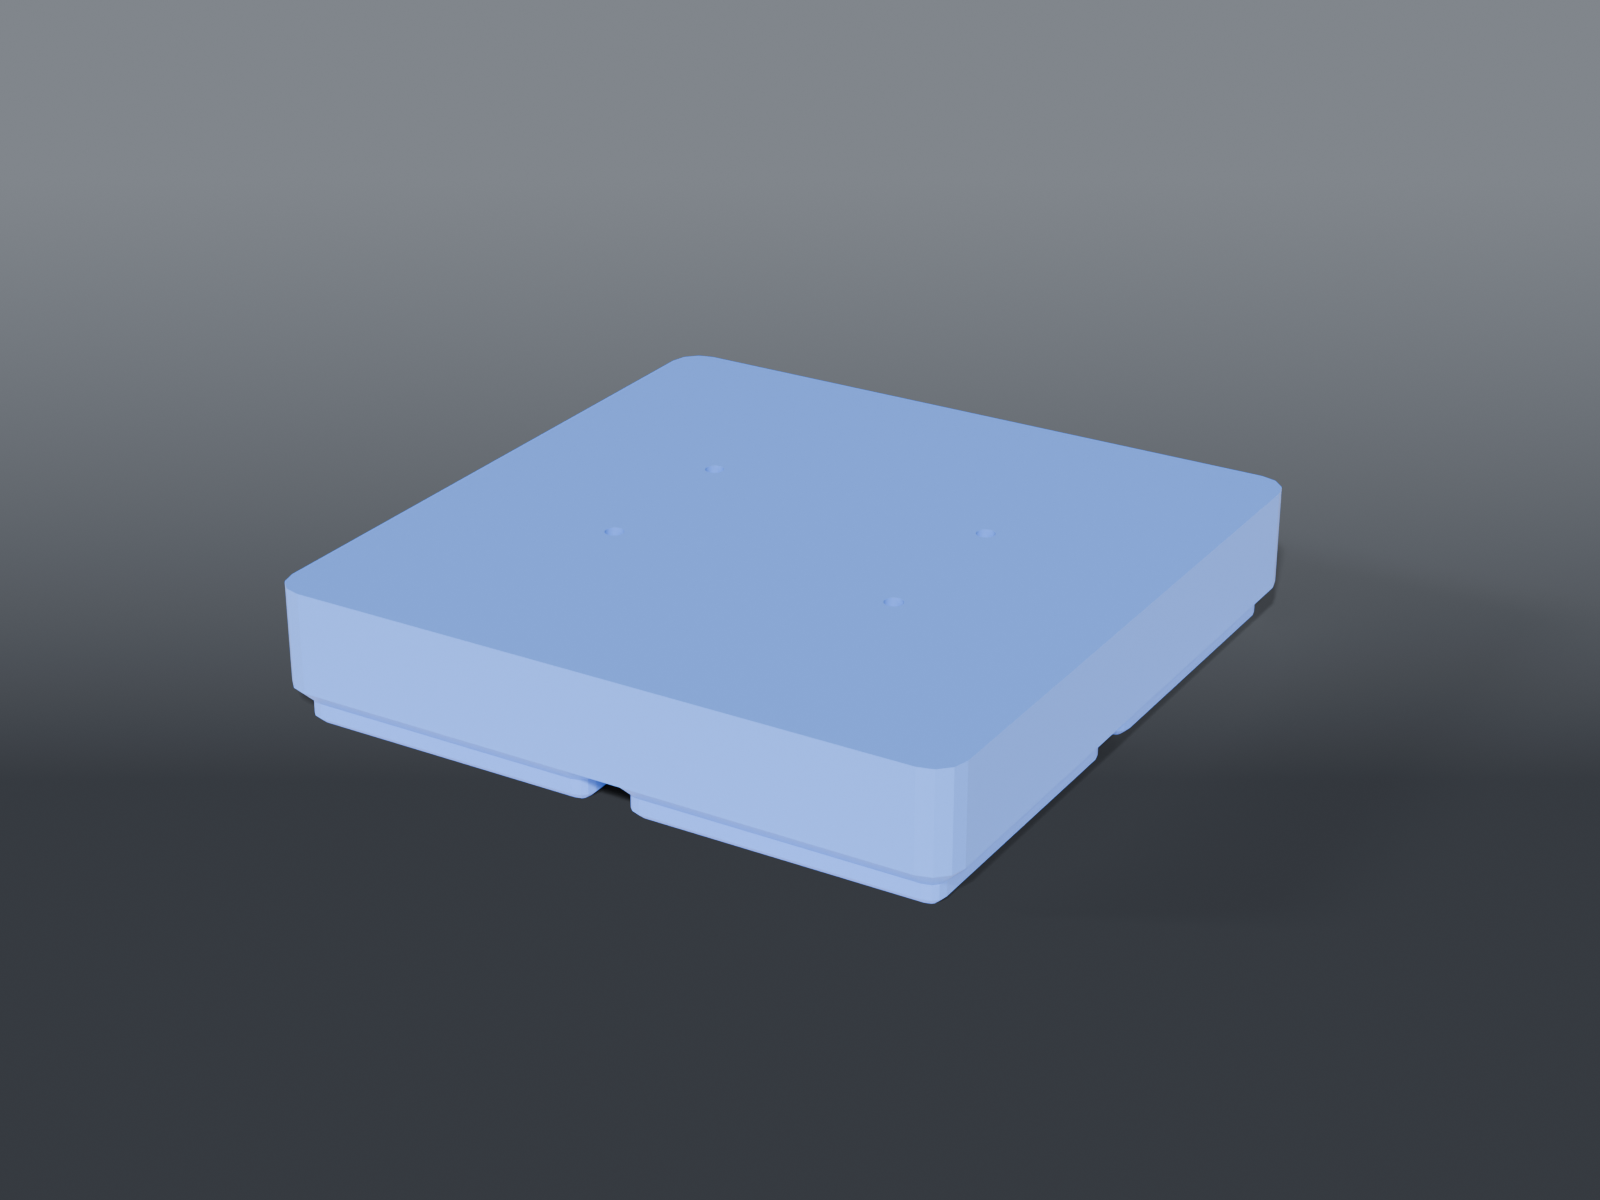
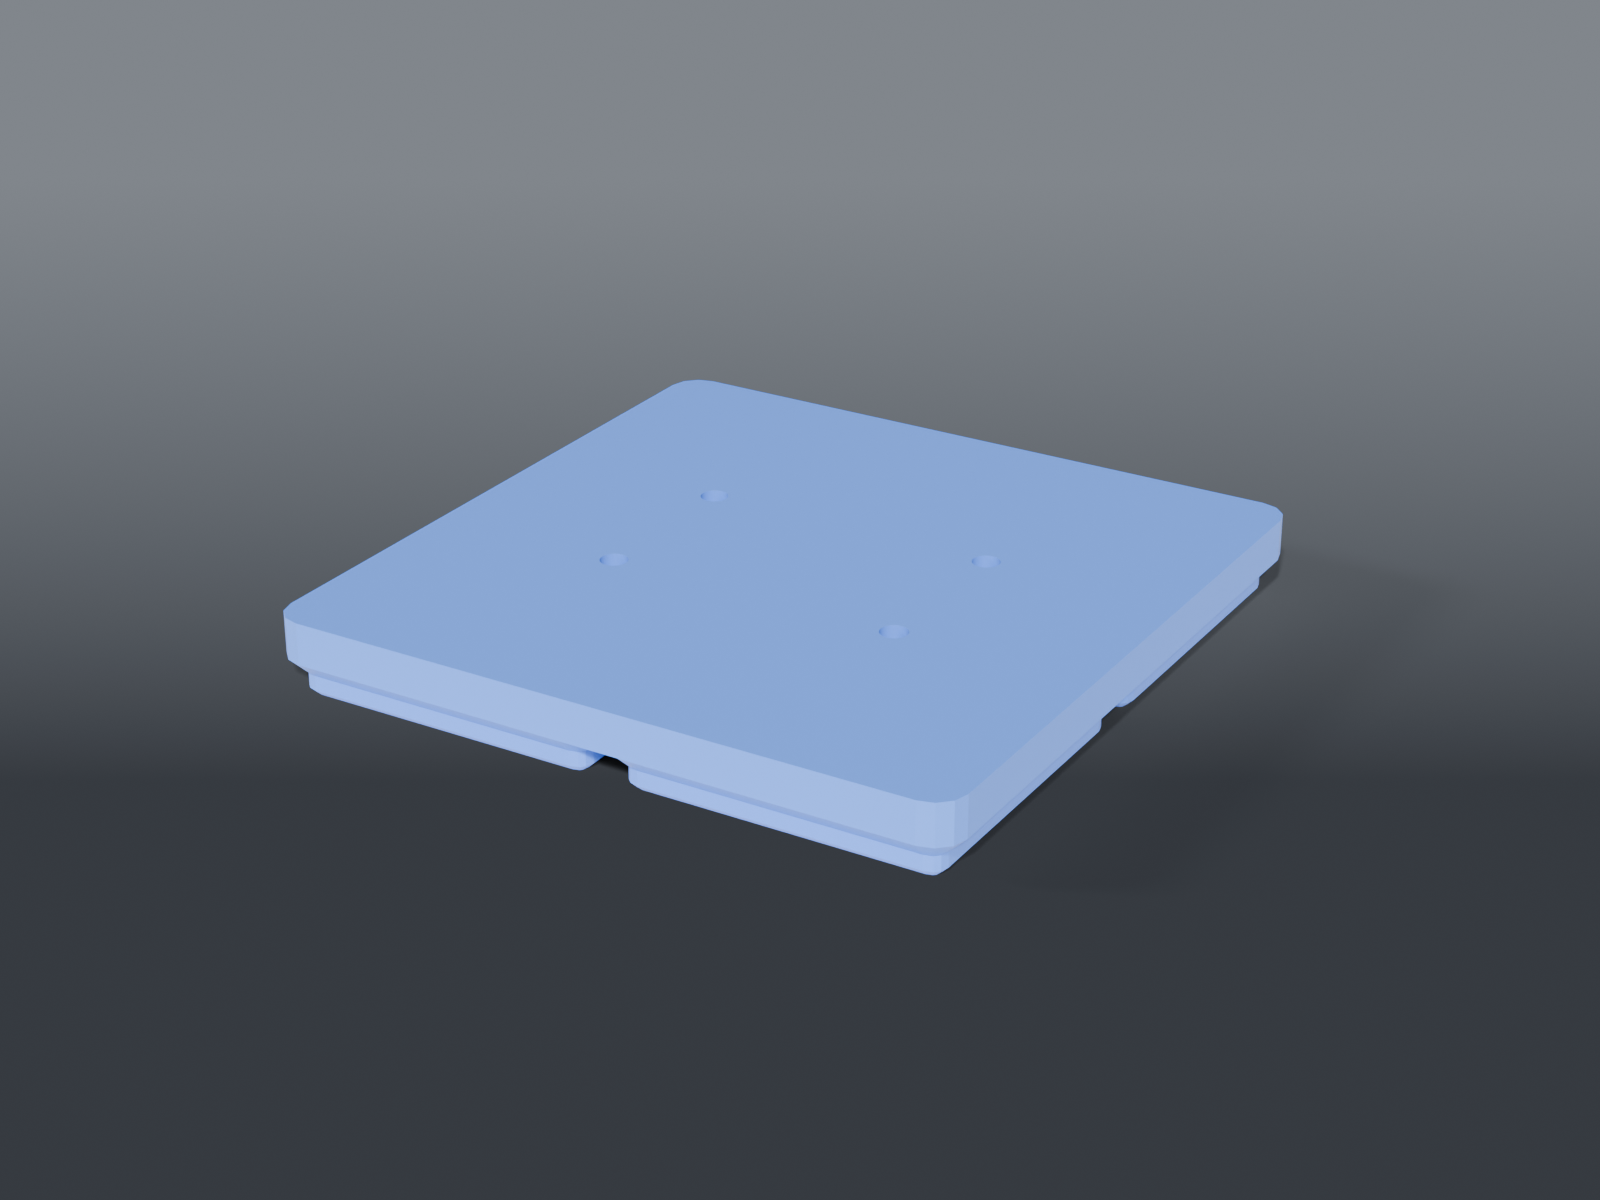
fix(heat-gun-holder): bolt from below — through holes, recessed heads, 5 mm deck

diff --git a/heat-gun-holder/README.md b/heat-gun-holder/README.md
@@ -5,41 +5,63 @@
 **Gridfinity** 2×2 plate that the heat gun's magnetic bracket screws down onto, putting the gun
 on the grid instead of loose on the bench.
 
-## Why 2×2 and not 2×1
+## It bolts from below
 
-The hole pattern is only 36 × 21, which a 2×1 would take. The constraint is **latch force**, not
-geometry — Clickfinity holds roughly 12.2 N per cell:
+The bracket takes screws only from its underside, so they come **up through the plate** into the
+bracket's own threads — not down into the plastic.
 
-| | Cells | Hold |
+That inverts the whole plate. v1.0.x had four blind 2.22 mm pilots 10 mm deep in a 12 mm deck:
+
+| | v1.0.x | now |
 |---|---|---|
-| 2×1 | 2 | ~24 N (2.5 kgf) |
-| **2×2** | 4 | **~49 N (5 kgf)** |
+| Holes | blind, 2.22 pilot | **through, 3.24 clearance** |
+| Screw head | on top of the bracket | **recessed 4 mm into the foot** |
+| Deck | 12 mm | **5 mm** |
+| Plate height | 16.75 mm | **9.75 mm** |
 
-Pulling a heat gun off a magnetic bracket beats 2.5 kgf easily, and then the plate lifts with the
-gun rather than the gun leaving the bracket.
+A pilot would bind the shank, and a head left proud on the underside holds the plate off the grid
+so the latch never seats.
 
-## Screws
+## The deck is sized by screw reach
 
-Measured at **2.84 mm** thread OD (that's 0.112″, a #4). The pilot is **2.22 mm** — 78 % of OD,
-because a self-tapper cuts its own thread and a hole at full OD strips instead of biting.
+This is the part that's easy to get wrong. A screw entering from below has to cross the whole
+plate before it reaches the bracket:
 
-The model stores `SCREW_OD` and derives the pilot from it, so re-sizing means changing the
-measurement rather than hand-editing a hole.
+| Deck | Plate | Screw crosses | Needs a screw of |
+|---|---|---|---|
+| 12 mm (old) | 16.75 | 12.75 | **17 mm+** |
+| 8 mm | 12.75 | 8.75 | 13 mm+ |
+| 6 mm | 10.75 | 6.75 | 11 mm+ |
+| **5 mm** | **9.75** | **5.75** | **10 mm+** |
+| 4 mm | 8.75 | 4.75 | 9 mm+ |
 
-Holes are **blind, 10 mm deep** in a 12 mm deck, so a screw can never break through into the
-baseplate socket underneath.
+At the old 12 mm deck the screw would need to be 17 mm long just to get 4 mm of bite. 5 mm is the
+default because a 10 mm screw then gives 4.25 mm of engagement.
 
-## Parts
-
-| File | What | Size |
-|---|---|---|
-| `plate_heat_gun.scad` | 2×2 plate, 4 bosses at ±18 / ±10.5 | 83.5 × 83.5 × 16.75 mm |
-
-## Source
+**Measure your screws and pick the row.** Override without editing:
 
 ```sh
-openscad -o plate_heat_gun.stl --export-format binstl plate_heat_gun.scad
+openscad -o p.stl --export-format binstl -D DECK=6 plate_heat_gun.scad
 ```
+
+## What's measured and what isn't
+
+**Measured:** the hole pattern (36 × 21 centre to centre, a true rectangle) and the screw's
+2.84 mm thread OD.
+
+> ⚠ **Not measured: the screw heads.** `HEAD_D = 8.0` and `HEAD_H = 4.0` are set **generously on
+> purpose.** An oversized recess loses a little material; an undersized one holds the plate off
+> the grid and the latch never seats. Wrong in the safe direction.
+
+> ⚠ **Not measured: screw length** — and it matters more now than it did. Too short and it never
+> reaches the bracket; too long and it bottoms out inside the bracket before the plate pulls
+> tight, which feels like a loose bracket rather than a wrong screw.
+
+## Why 2×2 and not 2×1
+
+The hole pattern is only 36 × 21, which a 2×1 would take. But Clickfinity holds about 12.2 N per
+cell — a 2×1 is ~24 N (2.5 kgf), a 2×2 is ~49 N (5 kgf). Pulling a heat gun off a magnetic
+bracket beats 2.5 kgf easily, and then the plate lifts with the gun.
 
 ## Recommended print settings
 
